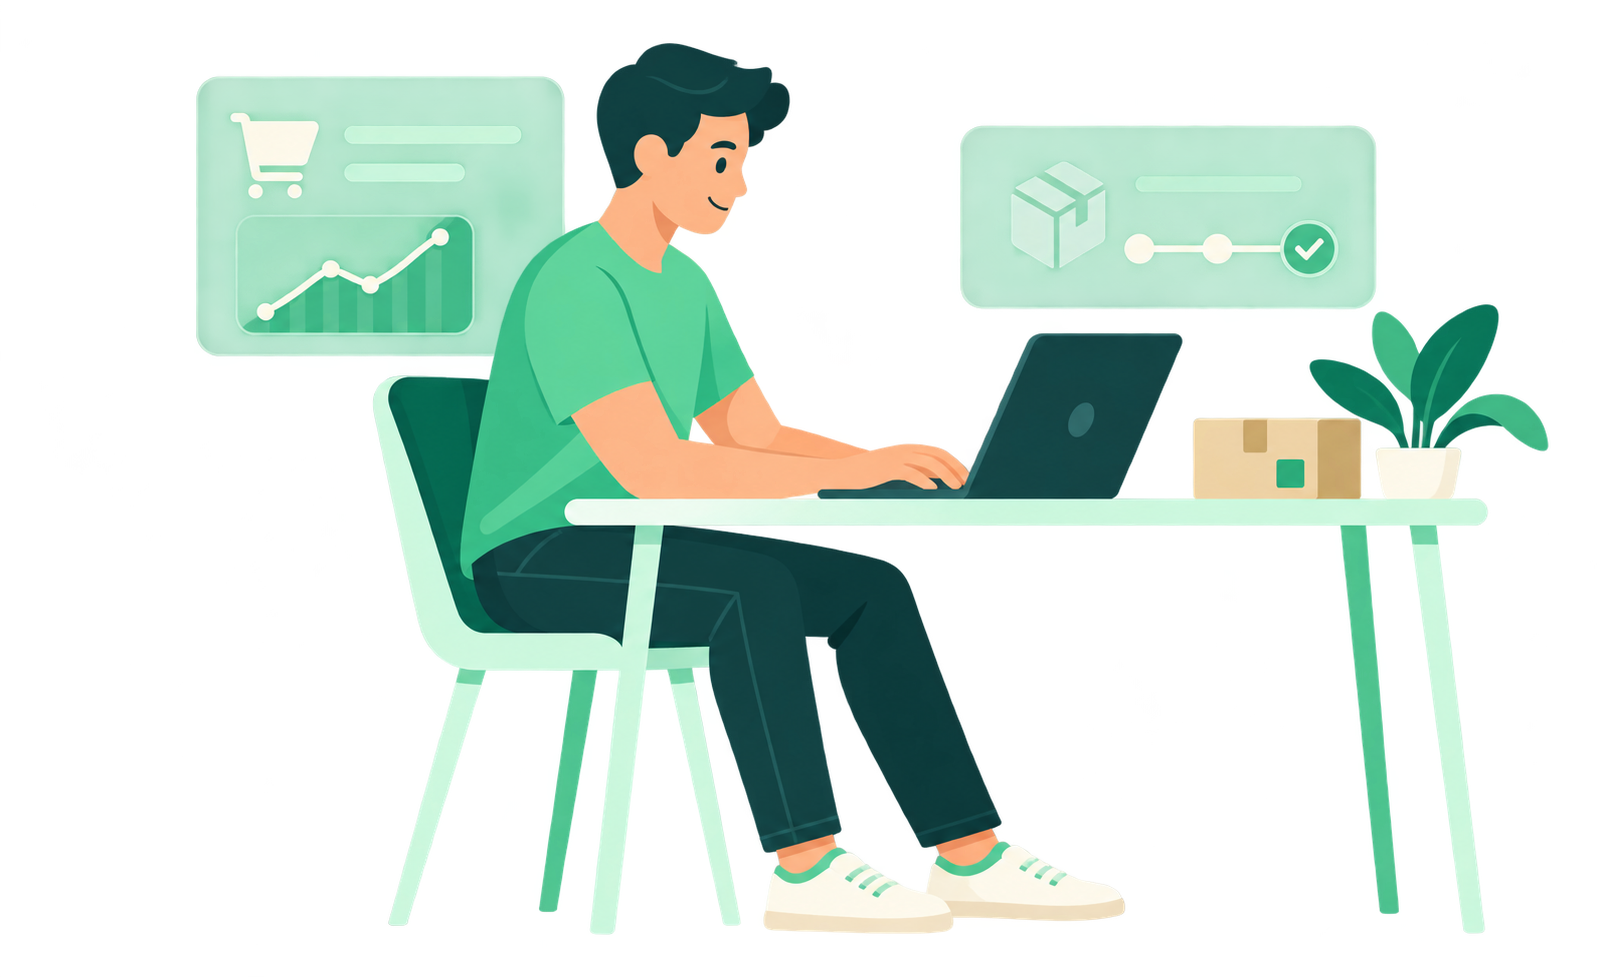
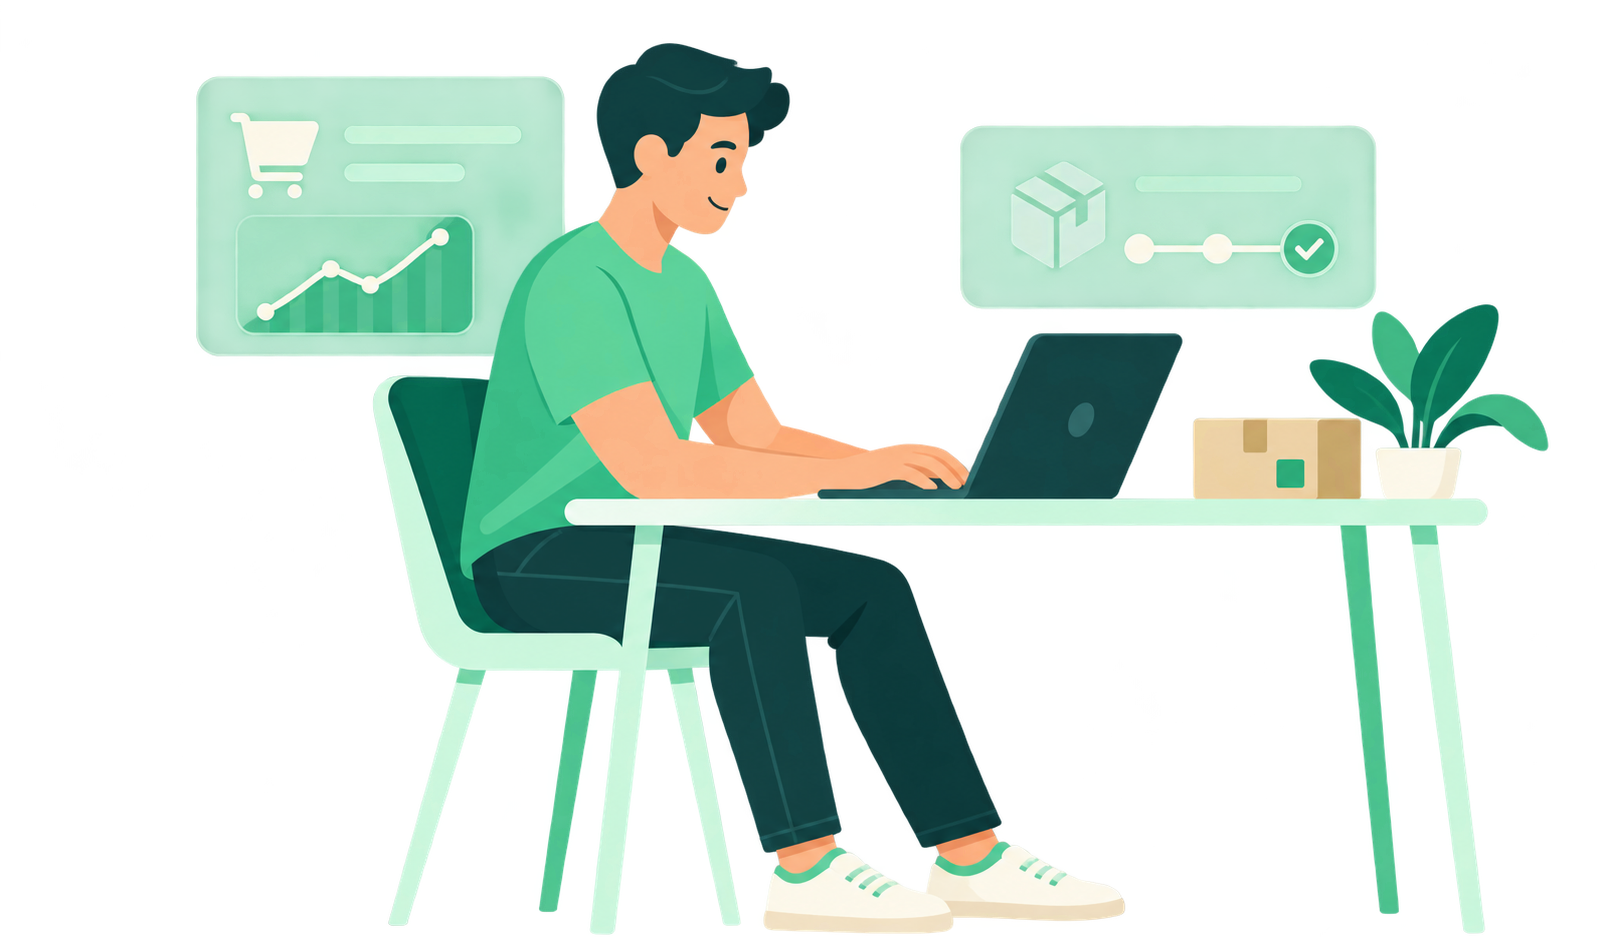
Deja libre la ilustración del inicio de sesión

diff --git a/public/assets/css/acceso.css b/public/assets/css/acceso.css
@@ -116,14 +116,6 @@ body.pagina-ingreso {
     line-height: 1.08;
 }
 
-.mensaje-bienvenida > p:last-child {
-    max-width: 370px;
-    margin: 18px 0 0;
-    color: #e2f7e9;
-    font-size: 17px;
-    line-height: 1.55;
-}
-
 .ilustracion-ingreso {
     position: absolute;
     z-index: 1;
@@ -424,12 +416,6 @@ body.pagina-ingreso {
 
     .mensaje-bienvenida h2 {
         font-size: 34px;
-    }
-
-    .mensaje-bienvenida > p:last-child {
-        max-width: 360px;
-        margin-top: 11px;
-        font-size: 14px;
     }
 
     .ilustracion-ingreso {

diff --git a/public/login.php b/public/login.php
@@ -84,9 +84,8 @@ mostrar_cabecera('Iniciar sesión', null, true);
         <div class="mensaje-bienvenida">
             <p class="etiqueta-panel">SISTEMA DE PEDIDOS</p>
             <h2 id="titulo-bienvenida">Bienvenido <br>de nuevo</h2>
-            <p>Tu espacio para gestionar pedidos, inventario y pagos de forma sencilla.</p>
         </div>
-        <img class="ilustracion-ingreso" src="/assets/img/gestion-pedidos-v2.png" alt="" aria-hidden="true">
+        <img class="ilustracion-ingreso" src="/assets/img/gestion-pedidos-v2.png?v=2" alt="" aria-hidden="true">
     </section>
 
     <section class="panel-formulario" aria-labelledby="titulo-ingreso">

diff --git a/public/includes/vista.php b/public/includes/vista.php
@@ -40,7 +40,7 @@ function mostrar_cabecera(string $titulo, ?array $usuario = null, bool $esIngres
     <link rel="icon" type="image/png" href="/assets/img/icono.png">
     <link rel="stylesheet" href="/assets/bootstrap/bootstrap.min.css">
     <?php if ($esIngreso): ?>
-        <link rel="stylesheet" href="/assets/css/acceso.css?v=11">
+        <link rel="stylesheet" href="/assets/css/acceso.css?v=12">
         <script src="/assets/js/acceso.js?v=4" defer></script>
     <?php elseif ($usuario !== null): ?>
         <link rel="stylesheet" href="/assets/css/aplicacion.css?v=25">
